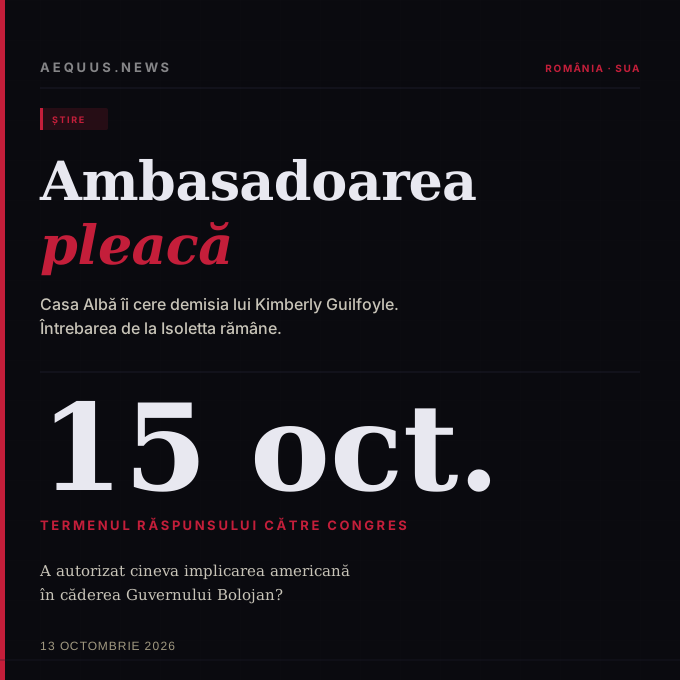
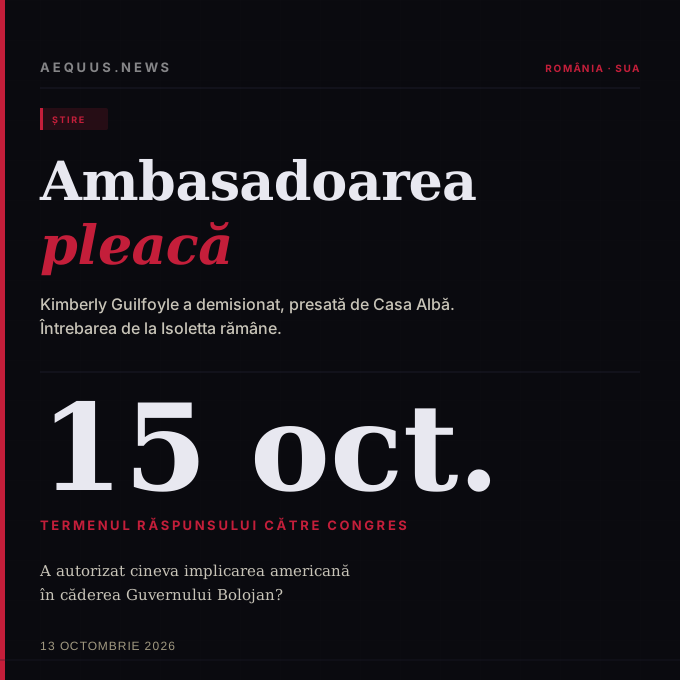
Add files via upload

Changed region(s): [[0.0618, 0.4324, 0.6794, 0.4632]]

diff --git a/articles/guilfoyle-demisie-isoletta.html b/articles/guilfoyle-demisie-isoletta.html
@@ -3,18 +3,18 @@
 <head>
     <meta charset="UTF-8">
     <meta name="viewport" content="width=device-width, initial-scale=1.0">
-    <meta name="description" content="Casa Albă i-a cerut ambasadoarei SUA în Grecia, Kimberly Guilfoyle, să demisioneze, pentru bani și influență. România nu apare în motivare, dar joi expiră termenul în care Departamentul de Stat trebuie să răspundă Congresului despre căderea Guvernului Bolojan.">
-    <meta property="og:title" content="Guilfoyle, cerută să demisioneze. Întrebarea de la Isoletta rămâne">
-    <meta property="og:description" content="Casa Albă i-a cerut ambasadoarei SUA în Grecia, Kimberly Guilfoyle, să demisioneze, pentru bani și influență. România nu apare în motivare, dar joi expiră termenul în care Departamentul de Stat trebuie să răspundă Congresului despre căderea Guvernului Bolojan.">
+    <meta name="description" content="Kimberly Guilfoyle a demisionat din funcția de ambasadoare a SUA în Grecia, după ce Casa Albă i-a cerut public să plece, pentru bani și influență. România nu apare în motivare, dar joi expiră termenul în care Departamentul de Stat trebuie să răspundă Congresului despre căderea Guvernului Bolojan.">
+    <meta property="og:title" content="Guilfoyle a demisionat. Întrebarea de la Isoletta rămâne">
+    <meta property="og:description" content="Kimberly Guilfoyle a demisionat din funcția de ambasadoare a SUA în Grecia, după ce Casa Albă i-a cerut public să plece, pentru bani și influență. România nu apare în motivare, dar joi expiră termenul în care Departamentul de Stat trebuie să răspundă Congresului despre căderea Guvernului Bolojan.">
     <meta property="og:image" content="https://aequus.news/articles/card-guilfoyle-demisie-isoletta.png">
     <meta property="og:url" content="https://aequus.news/articles/guilfoyle-demisie-isoletta.html">
     <meta property="og:type" content="article">
     <meta property="og:site_name" content="Aequus">
     <meta name="twitter:card" content="summary_large_image">
-    <meta name="twitter:title" content="Guilfoyle, cerută să demisioneze. Întrebarea de la Isoletta rămâne">
+    <meta name="twitter:title" content="Guilfoyle a demisionat. Întrebarea de la Isoletta rămâne">
     <meta name="twitter:description" content="Ambasadoarea pleacă. Întrebarea despre București rămâne, iar joi Departamentul de Stat trebuie să răspundă Congresului.">
     <meta name="twitter:image" content="https://aequus.news/articles/card-guilfoyle-demisie-isoletta.png">
-    <title>Guilfoyle, cerută să demisioneze | Aequus</title>
+    <title>Guilfoyle a demisionat | Aequus</title>
     <style>
         * {
             margin: 0;
@@ -121,19 +121,28 @@
             letter-spacing: 2px;
             margin-bottom: 10px;
         }
+        .actualizare-label { font-size: 12px; letter-spacing: 2px; text-transform: uppercase; color: #c41e3a; margin-bottom: 10px; display: block; }
+        .actualizare { margin: 30px 0 10px 0; padding: 20px 24px 6px 24px; border: 1px solid #2a1a1a; background-color: #110808; }
     </style>
 </head>
 <body>
     <div class="container">
         <header>
             <div class="tagline">România · SUA · Știre</div>
-            <h1>Guilfoyle, cerută să demisioneze. Întrebarea de la Isoletta rămâne</h1>
+            <h1>Guilfoyle a demisionat. Întrebarea de la Isoletta rămâne</h1>
             <div class="date-author">13 octombrie 2026 | Aequus</div>
+            <div style="color:#c41e3a;font-size:13px;margin-top:6px">Actualizat ora 19:15: Guilfoyle a demisionat.</div>
         </header>
 
         <p class="lead">
-            Casa Albă i-a cerut ambasadoarei SUA în Grecia, Kimberly Guilfoyle, să demisioneze. Motivele invocate țin de bani și influență, iar România nu apare în ele. Întrebarea despre București nu a primit însă niciun răspuns, iar joi expiră termenul în care Departamentul de Stat trebuie să răspundă Congresului.
+            Kimberly Guilfoyle a demisionat din funcția de ambasadoare a SUA în Grecia, la câteva ore după ce Casa Albă i-a cerut public să plece. Motivele invocate țin de bani și influență, iar România nu apare în ele. Întrebarea despre București nu a primit însă niciun răspuns, iar joi expiră termenul în care Departamentul de Stat trebuie să răspundă Congresului.
         </p>
+
+<div class="actualizare">
+            <span class="actualizare-label">Actualizare · 13 octombrie 2026, ora 19:15</span>
+            <p>Kimberly Guilfoyle a demisionat. Într-o postare pe rețelele sociale, a numit funcția de ambasador în Grecia „onoarea vieții mele” și a scris că, „deși mandatul meu de ambasador se apropie de sfârșit, angajamentul meu față de președintele Trump, mișcarea «America First» și țara pe care o iubesc nu se va sfârși niciodată”.</p>
+            <p>Despre acuzații: „Aceste acuzații sunt false și intenționez să-mi apăr cu fermitate numele, reputația și integritatea. [...] Nu voi permite ca acuzațiile false să definească deceniile mele de serviciu public.” Declarația nu se referă la niciuna dintre acuzațiile concrete și nu menționează România.</p>
+        </div>
 
         <h2>Faptele</h2>
 
@@ -161,7 +170,7 @@
         <p>Pe 1 octombrie, liderii democraților din comisiile de politică externă ale Congresului i-au scris lui Rubio. Congresmanul Gregory Meeks a întrebat explicit dacă vreo instituție americană a autorizat implicarea în politica românească ce a dus la căderea Guvernului Bolojan și a cerut demiterea ambasadoarei dacă acuzațiile se confirmă. Termenul de răspuns este 15 octombrie, joi.</p>
 
         <div class="data-box">
-            <strong>Ce nu știm:</strong> demisia cerută nu confirmă și nu infirmă vreun rol al ambasadoarei în căderea Guvernului Bolojan. Motivele invocate public de Casa Albă nu menționează România. Documentele publice de până acum nu dovedesc o influență americană asupra deciziei PSD.
+            <strong>Ce nu știm:</strong> demisia nu confirmă și nu infirmă vreun rol al ambasadoarei în căderea Guvernului Bolojan. Motivele invocate public de Casa Albă nu menționează România. Documentele publice de până acum nu dovedesc o influență americană asupra deciziei PSD.
         </div>
 
         <h2>Ce se schimbă</h2>
@@ -170,13 +179,13 @@
             Secțiunea aceasta este interpretare.
         </div>
 
-        <p><strong>Răspunsul de joi devine mai important, nu mai puțin.</strong> Cu Guilfoyle îndepărtată, cea mai comodă formulă pentru Departamentul de Stat este că ambasadoarea a acționat pe cont propriu. Ar fi primul document oficial american care o desparte de Washington. Ar lăsa însă deschisă întrebarea de fond: de la cine știa ea, pe 18 martie, ce avea să se întâmple în mai?</p>
+        <p><strong>Răspunsul de joi devine mai important, nu mai puțin.</strong> Cu Guilfoyle plecată, cea mai comodă formulă pentru Departamentul de Stat este că ambasadoarea a acționat pe cont propriu. Ar fi primul document oficial american care o desparte de Washington. Ar lăsa însă deschisă întrebarea de fond: de la cine știa ea, pe 18 martie, ce avea să se întâmple în mai?</p>
 
         <p><strong>O fostă ambasadoare e mai imprevizibilă decât una în funcție.</strong> Guilfoyle nu mai are o poziție de apărat, dar poate avea anchete în față. În astfel de situații, oamenii fie tac complet, fie încep să povestească.</p>
 
-        <p><strong>Documentele există.</strong> Dacă inspectorul general deschide o anchetă formală, agenda și notele vizitei de la București din 31 martie devin accesibile anchetatorilor. Pentru participanții români la cina de la Isoletta, demisia ambasadoarei nu închide subiectul. Mută întrebarea din presă în documente oficiale.</p>
+        <p><strong>Documentele există.</strong> Dacă inspectorul general deschide o anchetă formală, agenda și notele vizitei de la București din 31 martie devin accesibile anchetatorilor. Pentru participanții români la cina de la Isoletta, plecarea ambasadoarei nu închide subiectul. Mută întrebarea din presă în documente oficiale.</p>
 
-        <div class="source">Surse: <a href="https://www.thenationalnews.com/news/us/2026/10/13/kimberly-guilfoyle-resign-white-house-greece/">The National</a>, <a href="https://www.cnbc.com/2026/10/13/kimberly-guilfoyle-resign-trump-ambassador.html">CNBC</a>, <a href="https://www.usnews.com/news/world/articles/2026-10-13/white-house-says-us-ambassador-to-greece-guilfoyle-asked-to-resign">Reuters / US News</a>, <a href="https://www.washingtontimes.com/news/2026/oct/13/white-house-asked-kimberly-guilfoyle-resign-ambassador-greece-amid/">Washington Times</a> (anunțul Casei Albe), <a href="https://sentinelcolorado.com/nation-world/nation/ap-source-trump-rubio-weigh-firing-us-envoy-to-greece-after-mounting-reports-of-improper-conduct/">Associated Press</a> (Trump și Rubio, inspectorul general), <a href="https://www.fox5ny.com/news/kimberly-guilfoyle-eric-deters-pay-her-100k-credit-card-bill-wsj">Fox 5 / WSJ</a> (Deters), <a href="https://www.allsides.com/news/2026-10-12-0700/donald-trump-davos-kimberly-guilfoyle-boasted-private-jet-trips-luxury-stays">WSJ via AllSides</a> (Davos), <a href="https://spotmedia.ro/stiri/eveniment/financial-times-confirma-declaratiile-ambasadoarei-sua-in-grecia-care-provoaca-agitatie-in-romania">Spotmedia / Financial Times</a>, <a href="https://www.euronews.ro/articole/congresul-sua-cere-anchetarea-lui-kimberly-guilfoyle-ambasadoarea-americana-din-g">Euronews România</a> (scrisoarea Congresului, termenul de 15 octombrie), <a href="https://www.puterea.ro/?p=581550">Puterea</a> (Grindeanu), <a href="https://www.cotidianul.ro/?p=1015955">Cotidianul</a> (Peiu).<br>Dosarul Aequus: <a href="/articles/ce-stia-ambasadoarea-18-martie.html">Ce știa ambasadoarea pe 18 martie</a> · <a href="/articles/nova-firul-comun.html">Nova, firul comun</a> · <a href="/articles/grindeanu-ce-a-promis-cui-si-cand.html">Ce a promis Grindeanu, cui și când</a> · <a href="/articles/muresan-votul-umbra-atena.html">Votul de miercuri și umbra de la Atena</a></div>
+        <div class="source">Surse: <a href="https://www.biziday.ro/">Biziday</a> și postarea publică a lui Kimberly Guilfoyle (demisia și declarația), <a href="https://www.thenationalnews.com/news/us/2026/10/13/kimberly-guilfoyle-resign-white-house-greece/">The National</a>, <a href="https://www.cnbc.com/2026/10/13/kimberly-guilfoyle-resign-trump-ambassador.html">CNBC</a>, <a href="https://www.usnews.com/news/world/articles/2026-10-13/white-house-says-us-ambassador-to-greece-guilfoyle-asked-to-resign">Reuters / US News</a>, <a href="https://www.washingtontimes.com/news/2026/oct/13/white-house-asked-kimberly-guilfoyle-resign-ambassador-greece-amid/">Washington Times</a> (anunțul Casei Albe), <a href="https://sentinelcolorado.com/nation-world/nation/ap-source-trump-rubio-weigh-firing-us-envoy-to-greece-after-mounting-reports-of-improper-conduct/">Associated Press</a> (Trump și Rubio, inspectorul general), <a href="https://www.fox5ny.com/news/kimberly-guilfoyle-eric-deters-pay-her-100k-credit-card-bill-wsj">Fox 5 / WSJ</a> (Deters), <a href="https://www.allsides.com/news/2026-10-12-0700/donald-trump-davos-kimberly-guilfoyle-boasted-private-jet-trips-luxury-stays">WSJ via AllSides</a> (Davos), <a href="https://spotmedia.ro/stiri/eveniment/financial-times-confirma-declaratiile-ambasadoarei-sua-in-grecia-care-provoaca-agitatie-in-romania">Spotmedia / Financial Times</a>, <a href="https://www.euronews.ro/articole/congresul-sua-cere-anchetarea-lui-kimberly-guilfoyle-ambasadoarea-americana-din-g">Euronews România</a> (scrisoarea Congresului, termenul de 15 octombrie), <a href="https://www.puterea.ro/?p=581550">Puterea</a> (Grindeanu), <a href="https://www.cotidianul.ro/?p=1015955">Cotidianul</a> (Peiu).<br>Dosarul Aequus: <a href="/articles/ce-stia-ambasadoarea-18-martie.html">Ce știa ambasadoarea pe 18 martie</a> · <a href="/articles/nova-firul-comun.html">Nova, firul comun</a> · <a href="/articles/grindeanu-ce-a-promis-cui-si-cand.html">Ce a promis Grindeanu, cui și când</a> · <a href="/articles/muresan-votul-umbra-atena.html">Votul de miercuri și umbra de la Atena</a></div>
 
         <footer>
             <div class="footer-tagline">Aequus.news</div>

diff --git a/articles/ultimatum-cotroceni-dizolvare.html b/articles/ultimatum-cotroceni-dizolvare.html
@@ -1,0 +1,178 @@
+<!DOCTYPE html>
+<html lang="ro">
+<head>
+    <meta charset="UTF-8">
+    <meta name="viewport" content="width=device-width, initial-scale=1.0">
+    <meta name="description" content="Nicușor Dan le-ar fi transmis partidelor că, fără un acord pentru Guvernul Niculescu până joi, vineri dizolvă Parlamentul. Informația e pe surse, condițiile constituționale sunt îndeplinite, iar decizia reală o ia PSD miercuri.">
+    <meta property="og:title" content="Ultimatumul de la Cotroceni: joi acord, vineri dizolvare">
+    <meta property="og:description" content="Nicușor Dan le-ar fi transmis partidelor că, fără un acord pentru Guvernul Niculescu până joi, vineri dizolvă Parlamentul. Informația e pe surse, condițiile constituționale sunt îndeplinite, iar decizia reală o ia PSD miercuri.">
+    <meta property="og:image" content="https://aequus.news/articles/card-ultimatum-cotroceni-dizolvare.png">
+    <meta property="og:url" content="https://aequus.news/articles/ultimatum-cotroceni-dizolvare.html">
+    <meta property="og:type" content="article">
+    <meta property="og:site_name" content="Aequus">
+    <meta name="twitter:card" content="summary_large_image">
+    <meta name="twitter:title" content="Ultimatumul de la Cotroceni: joi acord, vineri dizolvare">
+    <meta name="twitter:description" content="Miercuri decide PSD, joi expiră termenul, vineri poate veni decretul. Ultimatum sau demonstrație?">
+    <meta name="twitter:image" content="https://aequus.news/articles/card-ultimatum-cotroceni-dizolvare.png">
+    <title>Ultimatumul de la Cotroceni | Aequus</title>
+    <style>
+        * {
+            margin: 0;
+            padding: 0;
+            box-sizing: border-box;
+        }
+        body {
+            background-color: #0a0a0f;
+            color: #e8e4d8;
+            font-family: Georgia, serif;
+            line-height: 1.75;
+            font-size: 16px;
+            padding: 40px 20px;
+        }
+        .container {
+            max-width: 720px;
+            margin: 0 auto;
+        }
+        header {
+            margin-bottom: 40px;
+            border-bottom: 2px solid #c41e3a;
+            padding-bottom: 20px;
+        }
+        .tagline {
+            color: #c41e3a;
+            font-size: 12px;
+            text-transform: uppercase;
+            letter-spacing: 2px;
+            margin-bottom: 10px;
+        }
+        h1 {
+            font-size: 32px;
+            font-weight: normal;
+            line-height: 1.3;
+            margin-bottom: 15px;
+            color: #e8e4d8;
+        }
+        .date-author {
+            color: #a09880;
+            font-size: 13px;
+            margin-top: 15px;
+        }
+        .lead {
+            font-size: 18px;
+            color: #d4cfc0;
+            margin: 30px 0 40px 0;
+            font-style: italic;
+            border-left: 3px solid #c41e3a;
+            padding-left: 20px;
+        }
+        h2 {
+            font-size: 22px;
+            font-weight: normal;
+            margin: 50px 0 20px 0;
+            color: #e8e4d8;
+            border-bottom: 1px solid #2a2a30;
+            padding-bottom: 10px;
+        }
+        p {
+            margin-bottom: 20px;
+            text-align: justify;
+            color: #d4cfc0;
+        }
+        .data-box {
+            margin: 25px 0;
+            padding: 15px 20px;
+            border-left: 4px solid #c41e3a;
+            background-color: rgba(196, 30, 58, 0.08);
+            font-size: 15px;
+        }
+        .observation {
+            margin: 25px 0;
+            padding: 15px 20px;
+            border-left: 4px solid #4a6fa5;
+            background-color: rgba(74, 111, 165, 0.08);
+            font-size: 15px;
+        }
+        strong {
+            color: #e8e4d8;
+            font-weight: normal;
+            text-decoration: underline;
+            text-decoration-color: #c41e3a;
+        }
+        .source {
+            font-size: 12px;
+            color: #8a8674;
+            font-style: italic;
+            margin-top: 30px;
+            padding-top: 20px;
+            border-top: 1px solid #2a2a30;
+        }
+        .source a { color: #a09880; }
+        footer {
+            margin-top: 60px;
+            padding-top: 20px;
+            border-top: 1px solid #2a2a30;
+            color: #a09880;
+            font-size: 13px;
+        }
+        .footer-tagline {
+            color: #c41e3a;
+            font-size: 12px;
+            text-transform: uppercase;
+            letter-spacing: 2px;
+            margin-bottom: 10px;
+        }
+    </style>
+</head>
+<body>
+    <div class="container">
+        <header>
+            <div class="tagline">România · Guvern · Știre</div>
+            <h1>Ultimatumul de la Cotroceni: joi acord, vineri dizolvare</h1>
+            <div class="date-author">13 octombrie 2026 | Aequus</div>
+        </header>
+
+        <p class="lead">
+            Nicușor Dan le-ar fi transmis liderilor de partide că, dacă până joi nu există un acord pentru Guvernul Luca Niculescu, vineri va prezenta decretul de dizolvare a Parlamentului. Informația vine din surse apropiate Președinției și nu a fost confirmată oficial. Decizia care contează se ia însă mâine, la PSD.
+        </p>
+
+        <div class="data-box">
+            <strong>Calendarul:</strong> miercuri, 14 octombrie — conducerea extinsă a PSD decide dacă intră la guvernare · joi, 15 octombrie — Niculescu depune în Parlament programul și lista miniștrilor; termenul ultimatumului · vineri, 16 octombrie — posibilul decret de dizolvare.
+        </div>
+
+        <h2>Faptele</h2>
+
+        <p>Potrivit HotNews, Digi24 și Gândul, care citează surse politice și surse apropiate Administrației Prezidențiale, președintele le-a cerut partidelor un acord „clar și transparent” pentru învestirea Guvernului Niculescu până joi, 15 octombrie. În lipsa lui, Niculescu și-ar depune mandatul vineri, iar președintele ar prezenta decretul de dizolvare. Dan nu ar mai face o a cincea desemnare. Administrația Prezidențială nu a răspuns întrebărilor presei până la ora publicării.</p>
+
+        <p>Premierul desemnat a confirmat doar calendarul: după două zile de consultări, programul de guvernare și lista miniștrilor vor fi depuse joi în Parlament. „Fac tot ce ține de mine pentru asta”, a scris el, adăugând că „dialogul rămâne deschis”. Niculescu propune și un acord de susținere parlamentară pe șase luni, pentru reformele urgente.</p>
+
+        <h2>Poate face asta?</h2>
+
+        <p>Da. Articolul 89 din Constituție permite dizolvarea dacă Parlamentul nu a acordat votul de încredere în 60 de zile de la prima solicitare și numai după respingerea a cel puțin două solicitări de învestire. Ambele condiții sunt îndeplinite: au fost respinse Guvernul Veștea și Guvernul Mureșan, acesta din urmă pe 30 septembrie, cu 182 de voturi. Președintele trebuie să-i consulte pe președinții celor două Camere și pe liderii grupurilor parlamentare. Parlamentul poate fi dizolvat o singură dată pe an.</p>
+
+        <h2>Aritmetica</h2>
+
+        <p>Învestirea cere 233 de voturi. PNL și UDMR, cu 111 parlamentari, nu intră în guvern, dar sunt dispuse să voteze Guvernul Niculescu, chiar și cu PSD în componență. USR, prin Dominic Fritz, a anunțat că nu votează un guvern cu miniștri PSD și susține anticipatele. PSD are 127 de parlamentari. Fără PSD, plafonul e în jur de 170 de voturi, cât a strâns și Guvernul Mureșan. Cu PSD, PNL și UDMR, suma trece de 233 chiar fără USR. Singura majoritate posibilă este deci PSD–PNL–UDMR, cu USR în opoziție. Ultimatumul se adresează, practic, unui singur partid.</p>
+
+        <p>Sorin Grindeanu a spus că PSD „e pregătit de alegerile anticipate”, deși nu le consideră cea mai bună variantă pentru România, și a convocat pentru miercuri conducerea extinsă a partidului. Din partea AUR, liderul senatorilor, Petrișor Peiu, îl acuză pe președinte că își depășește atribuțiile.</p>
+
+        <h2>Ce spuneam pe 6 octombrie</h2>
+
+        <div class="observation">
+            Secțiunea aceasta este interpretare.
+        </div>
+
+        <p>În „Al patrulea premier”, Aequus formula ipoteza că desemnările succesive fără majoritate funcționează ca o demonstrație: fiecare eșec mută responsabilitatea crizei de la Cotroceni spre Parlament. Tot atunci argumentam că președintele evită anticipatele din calcul: AUR conduce intenția de vot, un scrutin l-ar putea întări pe Bolojan, iar o dizolvare percepută ca ostilă ar putea declanșa procedura de suspendare.</p>
+
+        <p>Ultimatumul de azi poate fi citit în două feluri. Ca o continuare a demonstrației, ar fi ultima treaptă a presiunii: PSD e pus să aleagă între guvernare și alegeri, iar responsabilitatea refuzului îi revine explicit. Ca o schimbare de calcul, ar însemna că, pentru președinte, costul blocajului a depășit costul anticipatelor. Pe 30 septembrie, Dan spunea că alegerile ar prelungi criza cu cinci luni și că „suntem o țară care trăiește pe datorie”. Bugetul pe 2027 și ratingul de țară, aflat la o treaptă de categoria speculativă, s-ar putea să fi schimbat balanța.</p>
+
+        <p>Faptul că mesajul a ajuns simultan la mai multe redacții, fără o confirmare oficială, sugerează prima lectură: o presiune pe care președintele vrea ca PSD să o audă înainte de ședința de miercuri, fără să și-o asume încă public. Răspunsul îl dă PSD mâine. Dacă intră la guvernare, ultimatumul și-a atins scopul fără să fie folosit. Dacă refuză, Dan va trebui să-și ducă amenințarea la capăt. Altfel își pierde ultima pârghie.</p>
+
+        <div class="source">Surse: <a href="https://hotnews.ro/planul-lui-nicusor-dan-daca-guvernul-niculescu-nu-gaseste-sustinere-pana-joi-presedintele-va-prezenta-vineri-decretul-de-dizolvare-a-parlamentului-2374797">HotNews</a>, <a href="https://www.digifm.ro/stiri/intern/nicusor-dan-le-ar-fi-dat-un-ultimatum-liderilor-de-partide-vineri-dizolva-parlamentul-daca-nu-ajung-la-un-acord-privind-noul-guvern-371543">Digi24 / Digi FM</a>, <a href="https://gandul.ro/actualitate/reactie-luca-niculescu-ultimatum-nicusor-dan-21033600">Gândul</a>, <a href="https://alephnews.ro/guvern/nicusor-dan-se-pregateste-sa-declanseze-alegeri-anticipate-daca-partidele-nu-ajung-la-un-acord-pana-joi-pentru-sustinerea-guvernului-niculescu">Aleph News</a>, <a href="https://informat.ro/politica/nicusor-dan-alegeri-anticipate-parlamentul-romaniei-administratia-prezidentiala-143307">Informat.ro</a>, <a href="https://www.constitutiaromaniei.ro/art-89-dizolvarea-parlamentului/">Constituția României, art. 89</a>, <a href="https://www.mediafax.ro/politic/alegerile-anticipate-sunt-in-stiloul-lui-nicusor-dan-toate-criteriile-au-fost-indeplinite-poate-dizolva-parlamentul-23816871">Mediafax</a>, <a href="https://www.digi24.ro/stiri/actualitate/politica/dominic-fritz-la-cotroceni-i-am-spus-presedintelui-ca-usr-nu-sustine-un-guvern-din-care-face-parte-psd-3828763">Digi24</a> (poziția USR).<br>Vezi și: <a href="/articles/al-patrulea-premier-niculescu.html">Al patrulea premier: ce a arătat desemnarea lui Luca Niculescu</a> · <a href="/articles/guvernul-muresan-respins-182.html">182 din 233</a> · <a href="/articles/la-o-treapta-de-junk.html">La o treaptă de junk</a></div>
+
+        <footer>
+            <div class="footer-tagline">Aequus.news</div>
+            <p>Sine ira et studio. Geopolitică și analiză investigativă din Timișoara.</p>
+        </footer>
+    </div>
+</body>
+</html>
